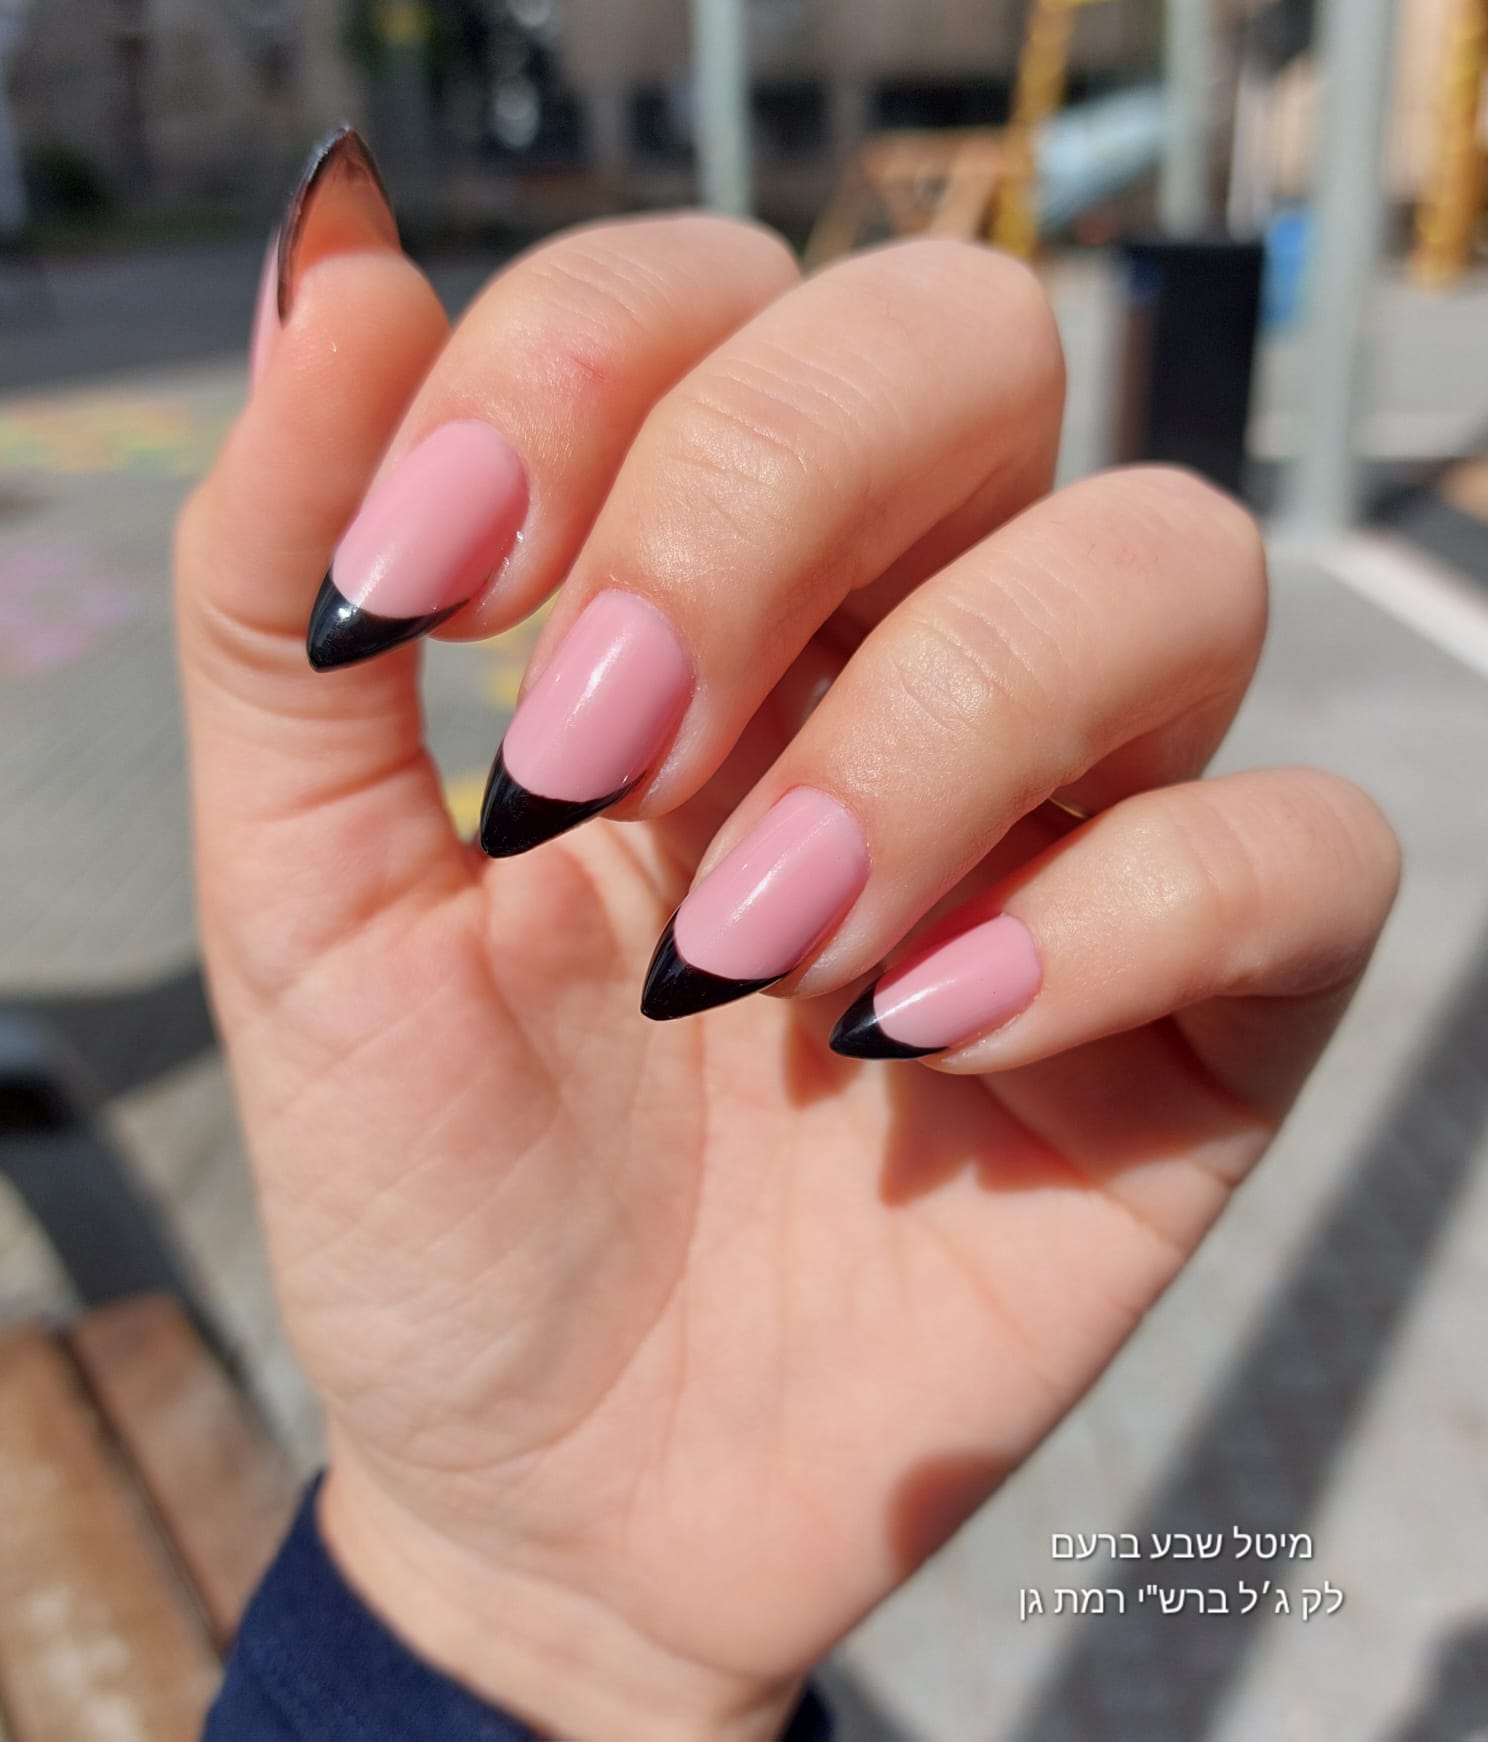
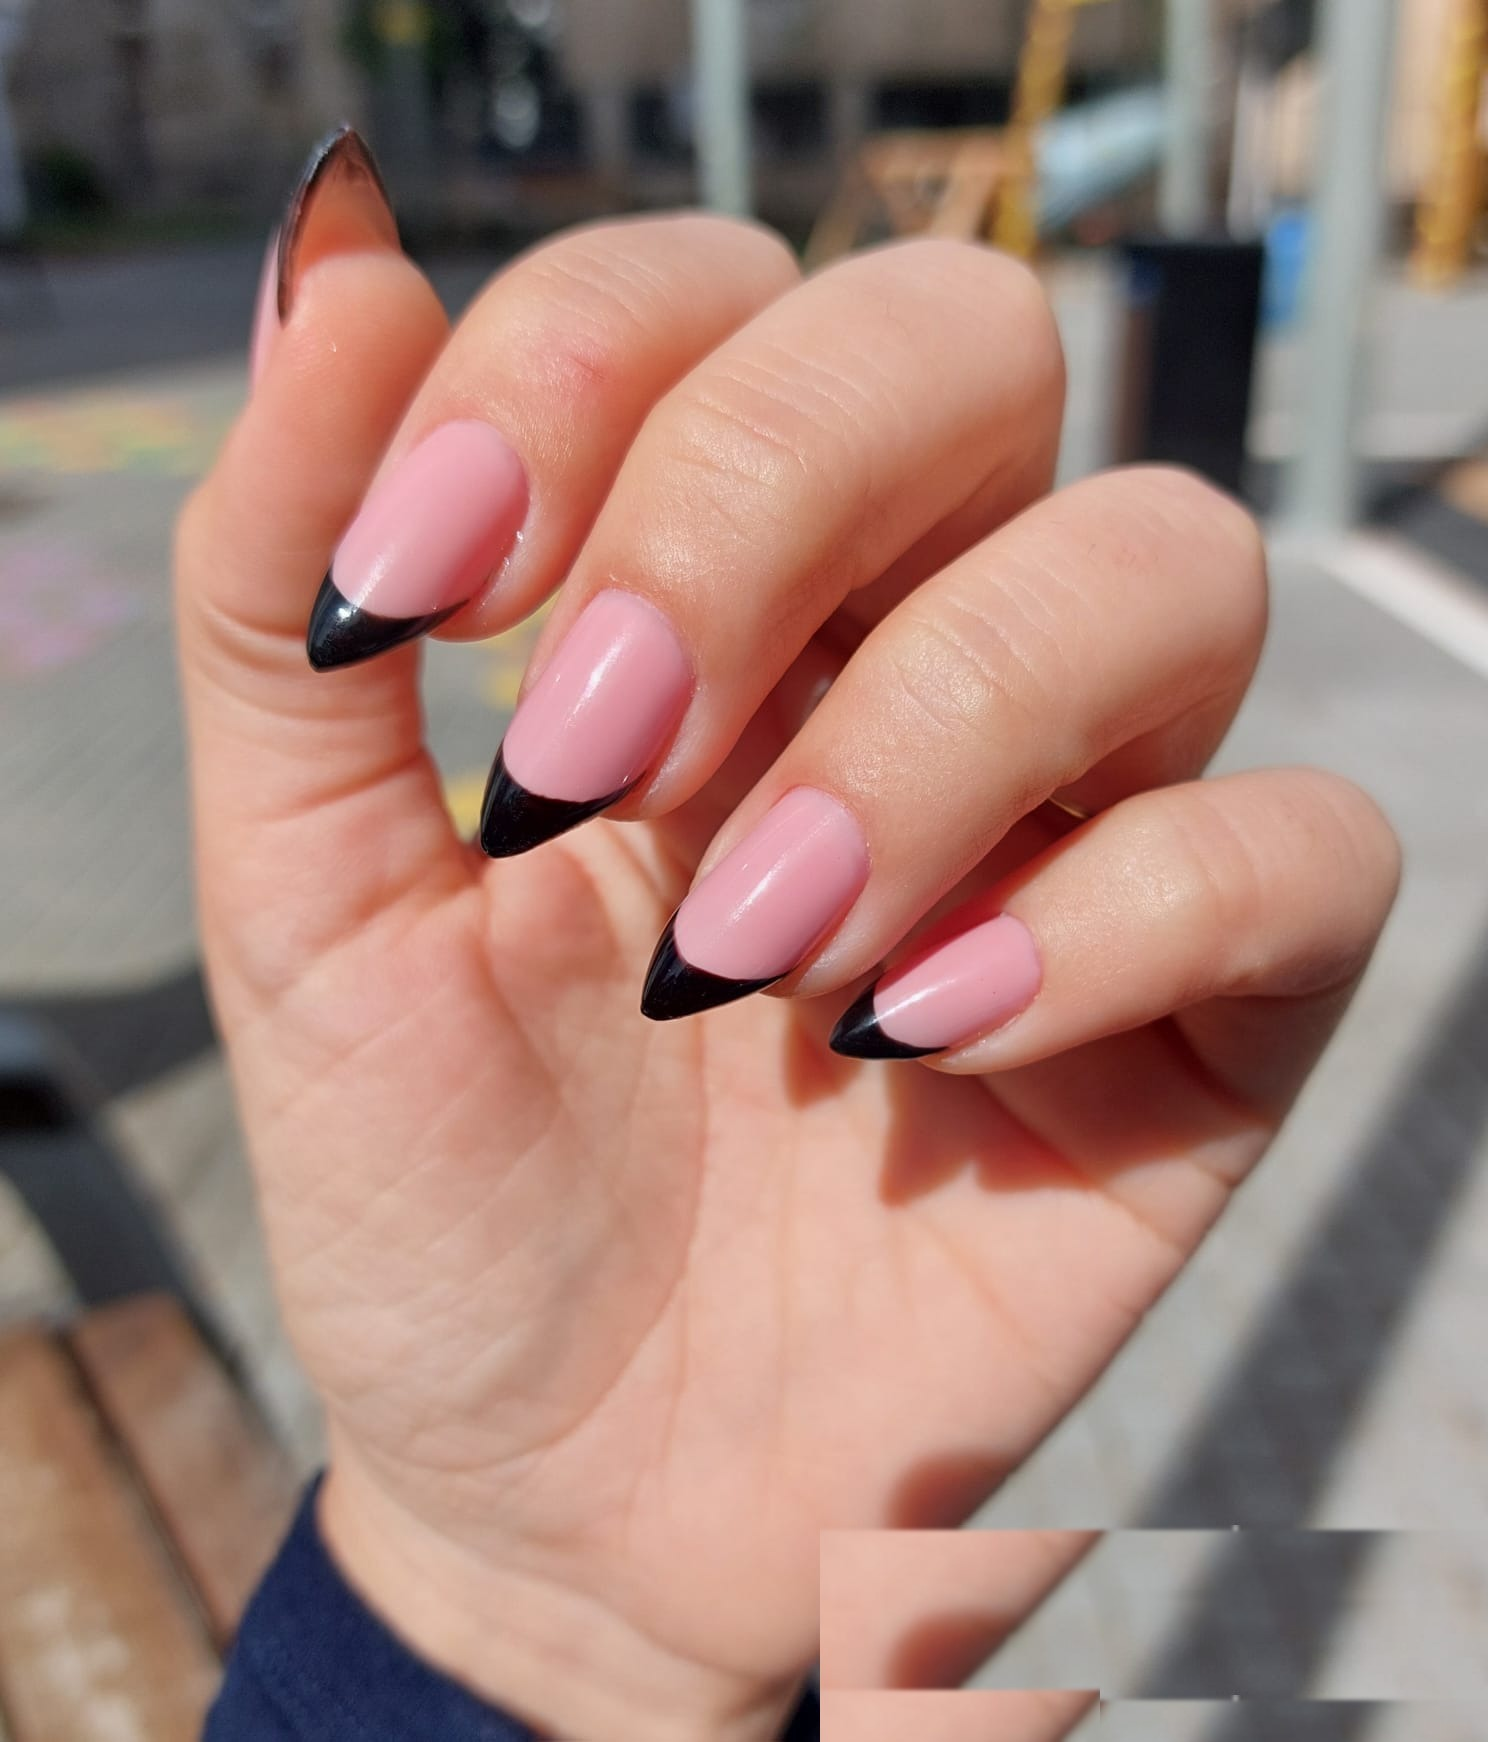
fix: text polish, modal display, analytics wiring, service catalog
• booking.js / landing.html: "לרגליים" → "ברגליים" for regular_feet and
  gel_combo labels (correct Hebrew preposition across all 3 surfaces)
• landing.html services section: combo service replaces legacy
  "עיצוב אמנותי" + "הסרת ג'ל" entries (aligns with 3-service catalog)
• index.html: version bump to 2.2.0
• my-booking.html + my-booking.js: cancel modal uses style.display instead
  of hidden attribute to prevent Tailwind class override on open/close
• landing.html: add importmap for mixpanel-stub before landing-analytics.js;
  remove stale chatbot.js script tag (widget is inline)

Changed region(s): [[0.5255, 0.868, 1.0, 1.0]]

diff --git a/frontend/landing.html b/frontend/landing.html
@@ -943,15 +943,9 @@ const SiteConfig = {
     },
     {
       num:   '03',
-      title: 'עיצוב אמנותי',
-      meta:  'לפי הזמנה',
-      desc:  "עיצוב ציפורניים ייחודי — ציורים, stone art, ombre ועוד. מתאים לאירועים, ימי הולדת ויום-יום.",
-    },
-    {
-      num:   '04',
-      title: "הסרת ג'ל",
-      meta:  '30 דקות',
-      desc:  "הסרה עדינה ומקצועית שמשמרת את הציפורן הטבעית. בלי שבירה, בלי נזק — הדרך הנכונה להסיר.",
+      title: "קומבו — ג'ל ידיים + לק רגיל ברגליים",
+      meta:  '90 דקות',
+      desc:  "השילוב המנצח: ג'ל ידיים מושלם ולק רגיל ברגליים — טיפול יחיד לסיום יוקרתי מכף רגל ועד ידיים.",
     },
   ],
 
@@ -1981,8 +1975,8 @@ document.addEventListener('DOMContentLoaded', function() {
         bubble.appendChild(a);
       } else if (p.match(/^\[SVC:(gel_hands|regular_feet|gel_combo)\]$/)) {
         var svcId = p.slice(5, -1);
-        var _SVC_LABELS = { gel_hands: '💅 לק ג\'\u05dc לציפורניים — 60 דק\'', regular_feet: '🦶 לק רגיל לרגליים — 30 דק\'', gel_combo: '✨ לק ג\'\u05dc + לק רגיל — 90 דק\'' };
-        var _SVC_MSGS   = { gel_hands: 'לק ג\'\u05dc לציפורניים', regular_feet: 'לק רגיל לרגליים', gel_combo: 'לק ג\'\u05dc + לק רגיל לרגליים' };
+        var _SVC_LABELS = { gel_hands: '💅 לק ג\'\u05dc לציפורניים — 60 דק\'', regular_feet: '🦶 לק רגיל ברגליים — 30 דק\'', gel_combo: '✨ לק ג\'\u05dc + לק רגיל ברגליים — 90 דק\'' };
+        var _SVC_MSGS   = { gel_hands: 'לק ג\'\u05dc לציפורניים', regular_feet: 'לק רגיל ברגליים', gel_combo: 'לק ג\'\u05dc + לק רגיל ברגליים' };
         var svcLabel = _SVC_LABELS[svcId] || svcId;
         var svcMsg   = _SVC_MSGS[svcId]   || svcId;
         bubble.appendChild(document.createElement('br'));
@@ -2263,7 +2257,7 @@ document.addEventListener('DOMContentLoaded', function() {
   else { window.addEventListener('load', lazyInit, { once: true }); }
 }());
 </script>
+<script type="importmap">{ "imports": { "mixpanel-browser": "./lib/mixpanel-stub.js" } }</script>
 <script type="module" src="./landing-analytics.js"></script>
-<script src="./chatbot.js"></script>
 </body>
 </html>

diff --git a/frontend/my-booking.html b/frontend/my-booking.html
@@ -141,7 +141,7 @@
   </main>
 
   <!-- ── Cancel modal ──────────────────────────────────────────── -->
-  <div id="modal-cancel" hidden class="fixed inset-0 z-50 flex items-end sm:items-center justify-center">
+  <div id="modal-cancel" hidden style="display:none" class="fixed inset-0 z-50 flex items-end sm:items-center justify-center">
     <div id="modal-cancel-backdrop" class="absolute inset-0 bg-black/40"></div>
     <div class="relative bg-white rounded-t-3xl sm:rounded-3xl w-full sm:max-w-sm p-6 space-y-4 shadow-2xl">
       <div class="w-10 h-1 bg-gray-200 rounded-full mx-auto mb-2 sm:hidden"></div>

diff --git a/frontend/my-booking.js b/frontend/my-booking.js
@@ -237,10 +237,10 @@ function renderHistory() {
 // ── Cancel modal ──────────────────────────────────────────────────────────────
 
 function openCancel() {
-  document.getElementById('modal-cancel').hidden = false;
+  document.getElementById('modal-cancel').style.display = 'flex';
 }
 function closeCancel() {
-  document.getElementById('modal-cancel').hidden = true;
+  document.getElementById('modal-cancel').style.display = 'none';
 }
 
 async function confirmCancel() {

diff --git a/frontend/booking.js b/frontend/booking.js
@@ -32,8 +32,8 @@ const SERVICES = [
   },
   {
     id: 'gel_combo',
-    name: "לק ג'ל לציפורניים + לק רגיל לרגליים",
-    desc: "חבילת הקומבו המלאה — ג'ל לידיים ולק רגיל לרגליים",
+    name: "לק ג'ל לציפורניים + לק רגיל ברגליים",
+    desc: "חבילת הקומבו המלאה — ג'ל לידיים ולק רגיל ברגליים",
     duration: 90,
     icon: '✨',
   },

diff --git a/frontend/index.html b/frontend/index.html
@@ -366,7 +366,7 @@
   </div>
 
   <script type="importmap">{ "imports": { "motion": "https://esm.sh/motion@12", "mixpanel-browser": "./lib/mixpanel-stub.js" } }</script>
-  <script type="module" src="./booking.js?v=2.1.0"></script>
+  <script type="module" src="./booking.js?v=2.2.0"></script>
   <script>if ("serviceWorker" in navigator) navigator.serviceWorker.register("./sw.js");</script>
 <script src="./chatbot.js"></script>
 </body>
